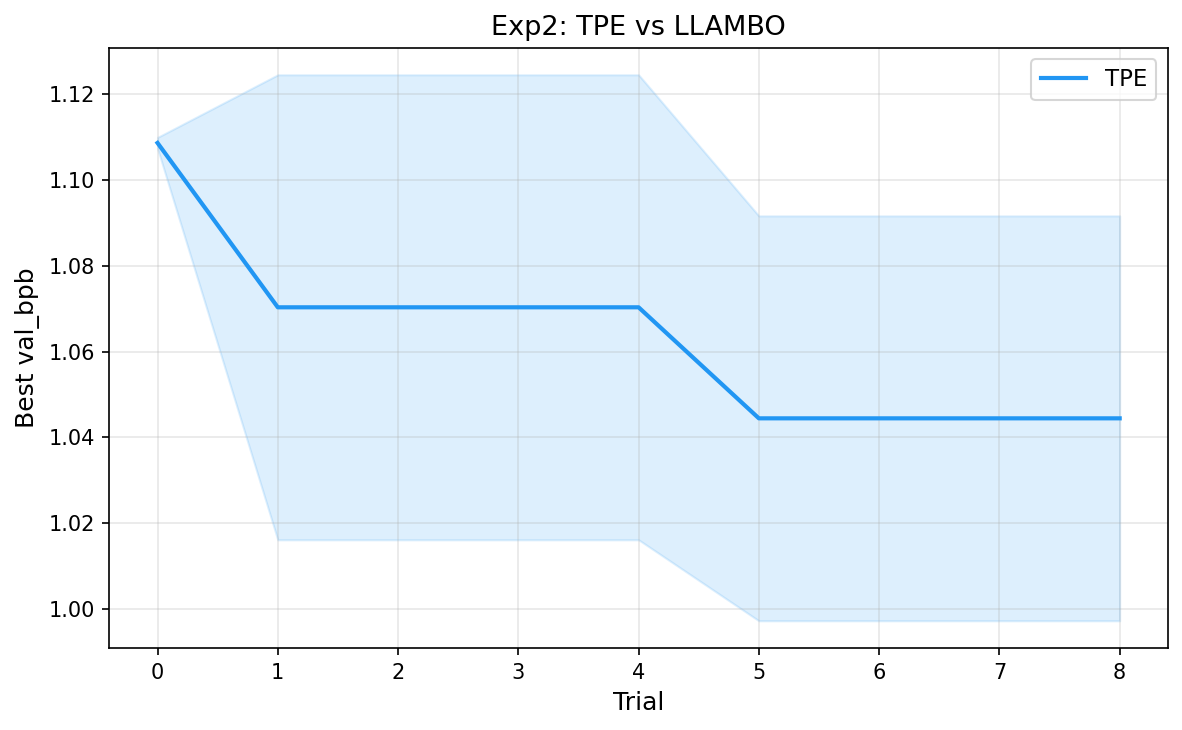
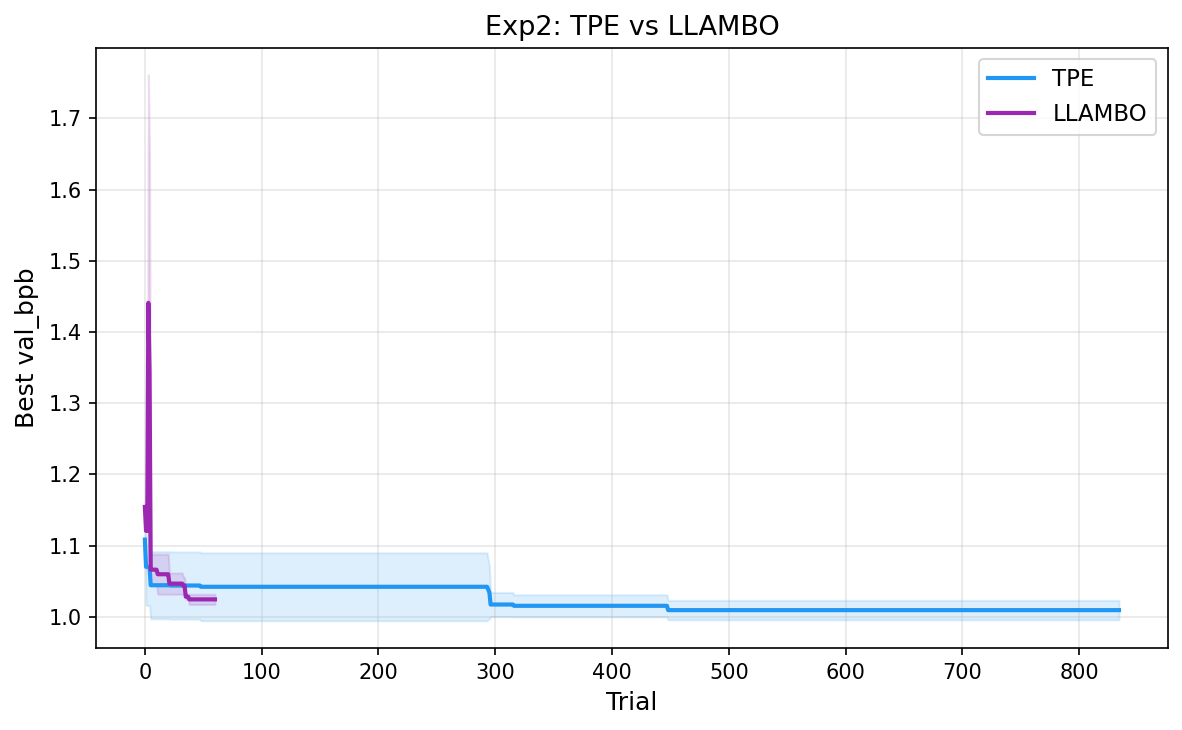
Add early results: TPE vs LLAMBO and model size plots

diff --git a/scripts/plot_convergence.py b/scripts/plot_convergence.py
@@ -11,7 +11,13 @@ def load_trials(jsonl_path: Path) -> list[dict]:
     trials = []
     with open(jsonl_path) as f:
         for line in f:
-            trials.append(json.loads(line))
+            line = line.strip()
+            if not line:
+                continue
+            try:
+                trials.append(json.loads(line))
+            except json.JSONDecodeError:
+                continue
     return trials
 
 

diff --git a/README.md b/README.md
@@ -14,6 +14,21 @@ As an AutoML enthusiast, it felt natural to fill this void and apply LLAMBO to K
 I run [Optuna](https://github.com/optuna/optuna) TPE and [LLAMBO via OptunaHub](https://hub.optuna.org/samplers/llambo/) on Karpathy's autoresearch training task: single GPU, 5 min budget per trial, minimize val_bpb. The search space (14 hyperparameters) is extracted automatically from train.py by parsing the source code for ALL_CAPS variable assignments. No manual HP curation. Ravid Shwartz-Ziv showed that expert-picked HPs matter. I deliberately avoid expert curation to test whether LLAMBO can compensate through pretrained knowledge.
 
 LLAMBO uses self-hosted open source LLMs (Qwen3.5 via vLLM), running on the same GPU as training. I also compare different LLM sizes to check whether a larger model actually produces better suggestions. No API keys, no proprietary models, fully reproducible.
+
+## Results (in progress)
+
+### TPE vs LLAMBO
+
+LLAMBO converges faster in the first ~20 trials. TPE catches up given enough budget. Experiments still running (24h Slurm jobs, 3 seeds each).
+
+![TPE vs LLAMBO convergence](assets/exp2_tpe_vs_llambo.png)
+
+### LLM model size
+
+0.8B finds good configs from the start. 9B starts worse but converges to the same level after ~15 trials. Bigger is not better for HP suggestions.
+
+![LLM model size comparison](assets/exp1_model_size.png)
+
 ## Usage
 
 ```bash
